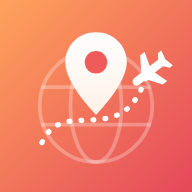
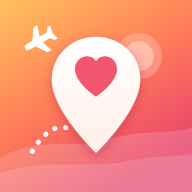
Nouvelle icône (repère cœur au coucher de soleil) et rechargement forcé sur iPhone
Claude-Session: https://claude.ai/code/session_018Ri5jaSbCYJsy2bQhUrWxt

diff --git a/index.html b/index.html
@@ -11,8 +11,8 @@
 <meta name="mobile-web-app-capable" content="yes">
 <meta name="apple-mobile-web-app-status-bar-style" content="black-translucent">
 <meta name="apple-mobile-web-app-title" content="Voyage">
-<link rel="apple-touch-icon" sizes="180x180" href="icons/apple-touch-icon.png">
-<link rel="icon" type="image/png" sizes="192x192" href="icons/icon-192.png">
+<link rel="apple-touch-icon" sizes="180x180" href="icons/apple-touch-icon.png?v=3">
+<link rel="icon" type="image/png" sizes="192x192" href="icons/icon-192.png?v=3">
 <link rel="manifest" href="manifest.webmanifest">
 <link rel="stylesheet" href="vendor/fontawesome/css/fontawesome.min.css">
 <link rel="stylesheet" href="vendor/fontawesome/css/solid.min.css">

diff --git a/sw.js b/sw.js
@@ -1,5 +1,5 @@
 // Service worker : l'app fonctionne hors-ligne (fichiers de l'app + fonds de carte déjà vus).
-const VERSION = 'cdv-v2.2.0';
+const VERSION = 'cdv-v2.2.1';
 const SHELL = [
   './', 'index.html', 'manifest.webmanifest', 'css/app.css',
   'icons/apple-touch-icon.png', 'icons/icon-192.png',
